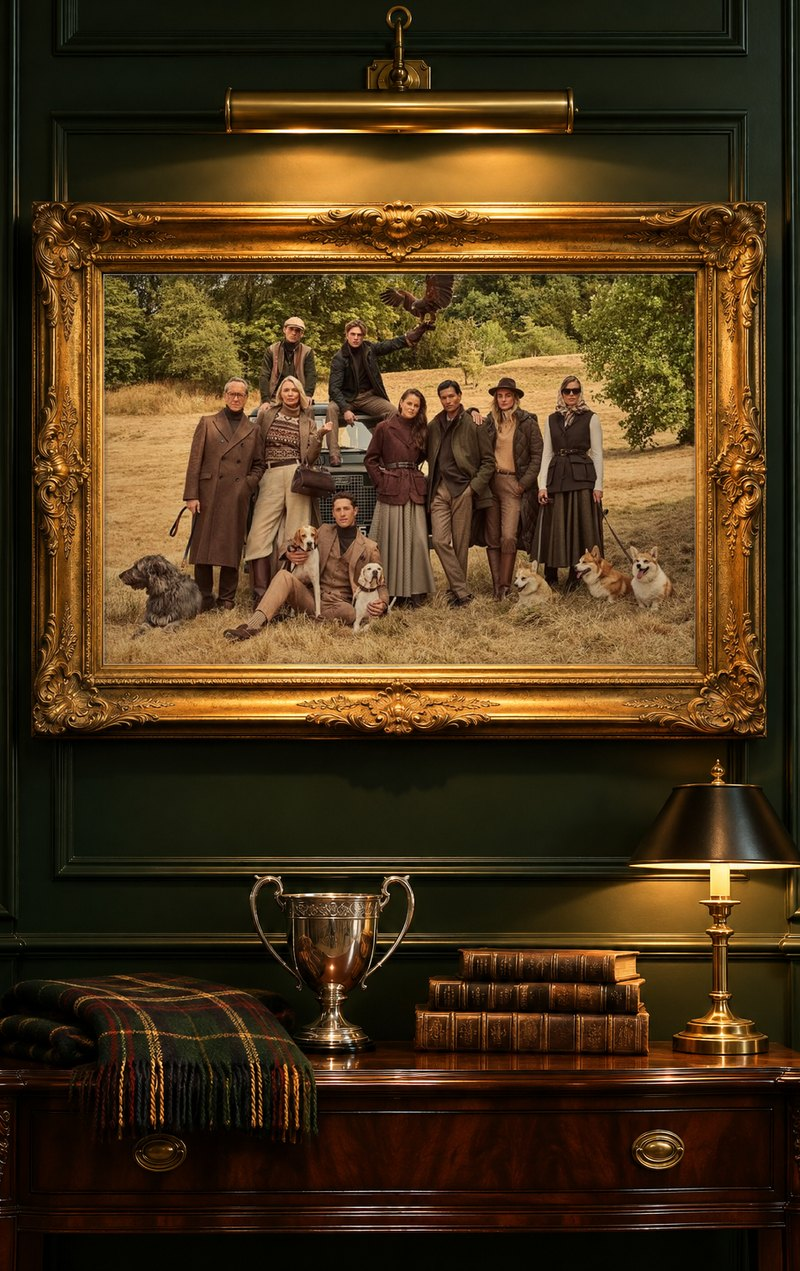
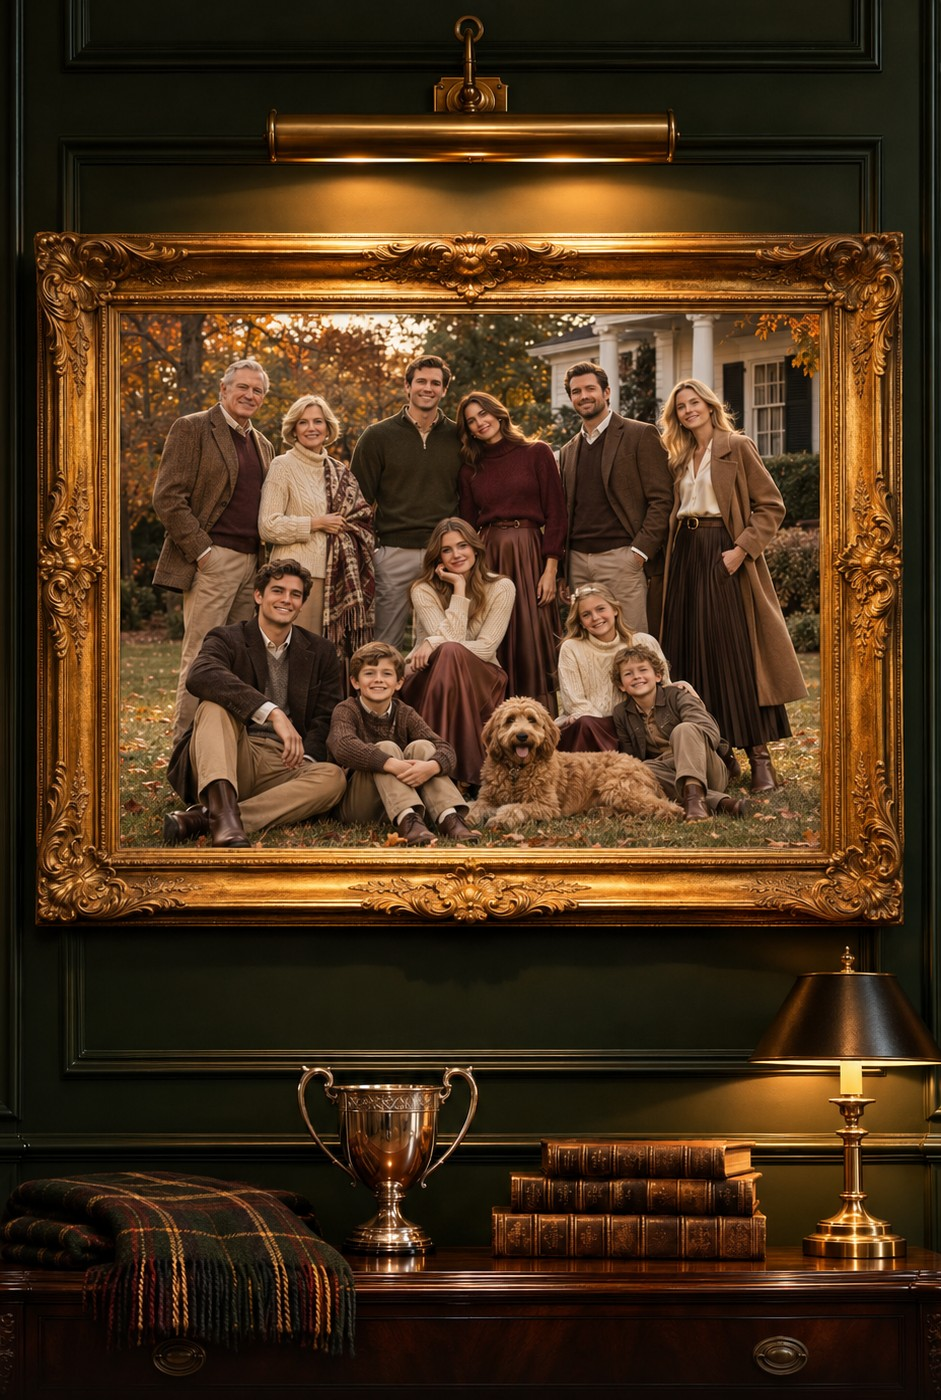
Replace the family portrait and update its caption
Claude-Session: https://claude.ai/code/session_011cVLfBv36XBio49eiQ4ZYx

diff --git a/index.html b/index.html
@@ -170,10 +170,10 @@ p,dd,blockquote,h3{text-wrap:balance}
 .prog .ft h3{font-family:var(--script);font-size:31px;color:var(--ox);line-height:1}
 
 /* ---------- 5: the family portrait, hung in the study ---------- */
-.c-port{background:linear-gradient(#15180c 0 50%,#0c0806 50%)}
+.c-port{background:linear-gradient(#17170c 0 50%,#0f0805 50%)}
 .c-port .wall{position:absolute;left:0;top:calc(50% - 400px);width:100%;max-width:none;height:auto}
-.c-port .fade{position:absolute;left:0;right:0;top:calc(50% + 148px);bottom:0;background:linear-gradient(180deg,rgba(12,8,6,0),rgba(12,8,6,.86) 30%,#0c0806 44%)}
-.c-port .in{inset:auto 0 0;height:190px;padding:0 40px 34px;justify-content:flex-end;color:#e9dcc2}
+.c-port .fade{position:absolute;left:0;right:0;top:calc(50% + 125px);bottom:0;background:linear-gradient(180deg,rgba(15,8,5,0),rgba(15,8,5,.93) 62px,#0f0805 92px)}
+.c-port .in{inset:auto 0 0;height:200px;padding:0 34px 38px;justify-content:flex-end;color:#e9dcc2}
 .c-port h2{font-family:var(--eng);font-weight:400;font-size:15.5px;letter-spacing:.36em;margin-right:-.36em;text-transform:uppercase;line-height:1.3}
 .c-port .hair{color:#c9a45c;margin:11px 0 10px}
 .c-port .when{font:italic 500 18.5px/1.2 var(--corm);color:#f1e6cf}
@@ -336,13 +336,13 @@ p,dd,blockquote,h3{text-wrap:balance}
 
     <!-- 5 -->
     <section class="card c-port" data-exit="lift" data-rot="4">
-      <img class="wall bleed" id="wall" src="img/wall.jpg" alt="Reference photograph in a gilt frame on a green panelled wall: a family group in tweeds and wool on a lawn, with dogs">
+      <img class="wall bleed" id="wall" src="img/wall.jpg" alt="A gilt-framed family portrait on a green panelled wall: three generations on a front lawn in sweaters, sport coats, wool coats, skirts and boots, with a dog">
       <div class="fade bleed" id="fade"></div>
       <div class="in">
         <h2 class="gilt">The Family Portrait</h2>
         <div class="hair"><i></i></div>
         <p class="when">11:30 AM &middot; Before the Feast</p>
-        <p class="n">On the front lawn, in your heritage best. The picture above is the look we are after, dogs optional.</p>
+        <p class="n">On the front lawn. Chinos, corduroy, sweaters, jackets, wool coats, skirts and boots.</p>
       </div>
       <div class="shade"></div>
     </section>
@@ -508,7 +508,7 @@ cards.forEach(c=>{const f=document.createElement('div');f.className='fit';const 
 function fit(){scale=Math.min(innerWidth/400,innerHeight/800);W=Math.min(innerWidth/scale,520);H=Math.min(innerHeight/scale,880);
   art.style.setProperty('--W',W+'px');art.style.setProperty('--H',H+'px');art.style.transform=`translate(-50%,-50%) scale(${scale})`;
   LC=Math.max(1,H/800,W/504);lane.style.backgroundSize=`${533.4*LC}px ${800*LC}px`;lane.style.backgroundPosition=`${W/2-281*LC}px ${H/2-400*LC}px`;lane.style.transformOrigin=`${W/2}px ${H/2+44*LC}px`;
-  $('#fade').style.top=`${(H-800)/2+548+330*(W/400-1)}px`;
+  $('#fade').style.top=`${(H-800)/2+Math.min(595.1*(W/400)-70,560)}px`;
   if(stage!=='deck'||idx===0)gates.style.transform=`scale(${W/400})`}
 addEventListener('resize',fit);fit();
 
